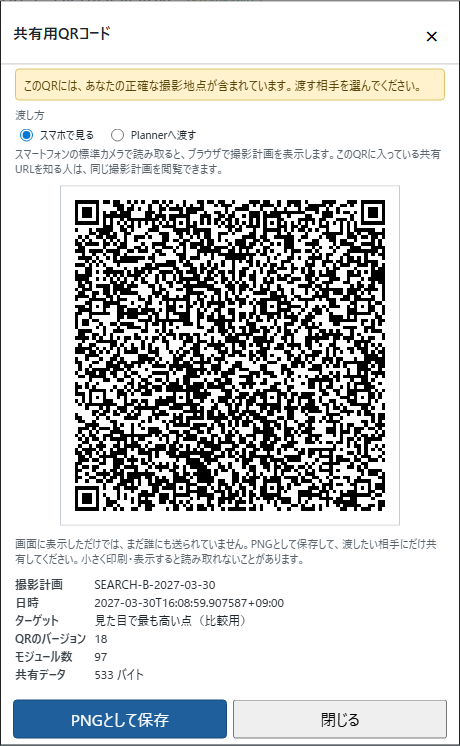
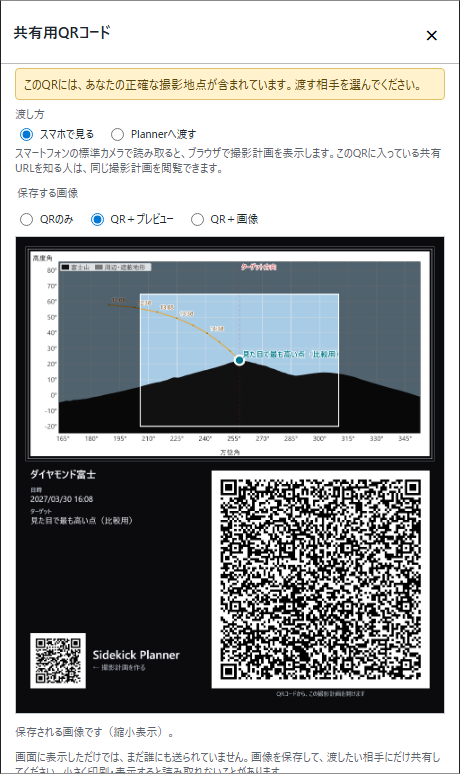
release-prep(planner): β1.02 Web candidate r2 —— Human Review H-1 / H-3 反映（未公開・未 push、自作 AI-16569）
H-1: 製品ページ JA/EN の導入で撮影計画 4 種の名前と意味（アプリの表記と同じ）を列挙。他の本文・changelog は承認済みのまま。
H-3: RC15 の実画面で planner-overview / search-b / qr-share（QR＋プレビュー、460×774、alt・caption 更新）/
viewer-mobile を更新、星の軌跡［実在星］の figure を新規追加。composition-preview は既存 alt と一致しないため据え置き、
天の川の screenshot は不採用。site tests +2。

diff --git a/sidekick-planner.html b/sidekick-planner.html
@@ -751,9 +751,15 @@
           <span class="section-label">Use cases</span>
           <h2>β1.02 でできる撮影計画</h2>
           <p>
-            β1.02 では、撮影計画の種類を「太陽」「パール」「星景」「風景」の 4 つから選べます。
+            β1.02 では、撮影計画の種類を次の 4 つから選べます（アプリの「撮影計画の種類」と同じ名前です）。
             代表例はダイヤモンド富士ですが、被写体は富士山だけではありません。
           </p>
+          <ul class="feature-list">
+            <li><strong>太陽</strong>（ダイヤモンド富士・太陽 × 被写体）—— 太陽が被写体に重なる日と撮影地点を探す</li>
+            <li><strong>パール</strong>（月 × 被写体）—— 月が被写体に重なる日と撮影地点を探す</li>
+            <li><strong>星景</strong>（地上の風景と星空の構図）—— 天の川などの空の被写体と地上の風景の構図、星の軌跡を確かめる</li>
+            <li><strong>風景</strong>（撮影地点から太陽・月を探す）—— 撮影地点から太陽と月がいつ・どちらに見えるかを確かめる</li>
+          </ul>
         </div>
 
         <div class="grid-3">
@@ -803,6 +809,14 @@
             </p>
           </div>
         </div>
+
+        <figure class="shot" style="margin-top:28px">
+          <img src="/images/planner/star-trails-real.jpg" width="1440" height="900" loading="lazy"
+               alt="星景の「星の軌跡」の画面。左パネルで撮影計画の種類「星景」と計画方法「星の軌跡」、日付 2027/04/01・開始時刻 20:00・撮影時間 8時間が選ばれている。右の星の軌跡プレビューは撮影地点から周囲 360° を見渡した図で、04/01 20:00 から翌 04:00 までの星の軌跡が弧を描き、北の空では北極星のまわりを回る軌跡、下には地形の稜線が描かれている。［実在星］が選ばれ、オリオン座・冬の大三角・カシオペヤ座などの星座の名前と線が表示されている。">
+          <figcaption class="shot-caption">
+            星の軌跡｜撮影地点から周囲 360° を見渡した図に、8 時間分の星の流れと地形を重ねて表示。［実在星］では明るい星と星座の線も描きます（実画面）。
+          </figcaption>
+        </figure>
       </div>
     </section>
 
@@ -913,10 +927,10 @@
 
         <div class="shot-grid shot-grid-qr">
           <figure class="shot">
-            <img src="/images/planner/qr-share.png" width="460" height="746" loading="lazy"
-                 alt="共有用QRコードのダイアログ。渡し方として「スマホで見る」と「Plannerへ渡す」の選択、QRコード画像、撮影計画・日時・ターゲットなどの内容、「PNGとして保存」ボタン。">
+            <img src="/images/planner/qr-share.png" width="460" height="774" loading="lazy"
+                 alt="共有用QRコードのダイアログ。渡し方として「スマホで見る」と「Plannerへ渡す」の選択、保存する画像として「QRのみ」「QR＋プレビュー」「QR＋画像」の選択があり、「QR＋プレビュー」が選ばれている。その下に、構図プレビュー・撮影計画（ダイヤモンド富士、2027/03/30 16:08）・大きな共有用 QR と小さな Sidekick Planner の QR を並べた保存用の画像。">
             <figcaption class="shot-caption">
-              QR 共有｜「スマホで見る」または「Plannerへ渡す」を選んで QR を作成（実画面）。
+              QR 共有｜「スマホで見る」または「Plannerへ渡す」を選んで QR を作成。保存する画像は「QRのみ」「QR＋プレビュー」「QR＋画像」から選べます（画面は QR＋プレビュー、実画面）。
             </figcaption>
           </figure>
 

diff --git a/templates/site/pages/sidekick-planner.html b/templates/site/pages/sidekick-planner.html
@@ -607,9 +607,15 @@
           <span class="section-label">Use cases</span>
           <h2>β1.02 でできる撮影計画</h2>
           <p>
-            β1.02 では、撮影計画の種類を「太陽」「パール」「星景」「風景」の 4 つから選べます。
+            β1.02 では、撮影計画の種類を次の 4 つから選べます（アプリの「撮影計画の種類」と同じ名前です）。
             代表例はダイヤモンド富士ですが、被写体は富士山だけではありません。
           </p>
+          <ul class="feature-list">
+            <li><strong>太陽</strong>（ダイヤモンド富士・太陽 × 被写体）—— 太陽が被写体に重なる日と撮影地点を探す</li>
+            <li><strong>パール</strong>（月 × 被写体）—— 月が被写体に重なる日と撮影地点を探す</li>
+            <li><strong>星景</strong>（地上の風景と星空の構図）—— 天の川などの空の被写体と地上の風景の構図、星の軌跡を確かめる</li>
+            <li><strong>風景</strong>（撮影地点から太陽・月を探す）—— 撮影地点から太陽と月がいつ・どちらに見えるかを確かめる</li>
+          </ul>
         </div>
 
         <div class="grid-3">
@@ -659,6 +665,14 @@
             </p>
           </div>
         </div>
+
+        <figure class="shot" style="margin-top:28px">
+          <img src="/images/planner/star-trails-real.jpg" width="1440" height="900" loading="lazy"
+               alt="星景の「星の軌跡」の画面。左パネルで撮影計画の種類「星景」と計画方法「星の軌跡」、日付 2027/04/01・開始時刻 20:00・撮影時間 8時間が選ばれている。右の星の軌跡プレビューは撮影地点から周囲 360° を見渡した図で、04/01 20:00 から翌 04:00 までの星の軌跡が弧を描き、北の空では北極星のまわりを回る軌跡、下には地形の稜線が描かれている。［実在星］が選ばれ、オリオン座・冬の大三角・カシオペヤ座などの星座の名前と線が表示されている。">
+          <figcaption class="shot-caption">
+            星の軌跡｜撮影地点から周囲 360° を見渡した図に、8 時間分の星の流れと地形を重ねて表示。［実在星］では明るい星と星座の線も描きます（実画面）。
+          </figcaption>
+        </figure>
       </div>
     </section>
 
@@ -769,10 +783,10 @@
 
         <div class="shot-grid shot-grid-qr">
           <figure class="shot">
-            <img src="/images/planner/qr-share.png" width="460" height="746" loading="lazy"
-                 alt="共有用QRコードのダイアログ。渡し方として「スマホで見る」と「Plannerへ渡す」の選択、QRコード画像、撮影計画・日時・ターゲットなどの内容、「PNGとして保存」ボタン。">
+            <img src="/images/planner/qr-share.png" width="460" height="774" loading="lazy"
+                 alt="共有用QRコードのダイアログ。渡し方として「スマホで見る」と「Plannerへ渡す」の選択、保存する画像として「QRのみ」「QR＋プレビュー」「QR＋画像」の選択があり、「QR＋プレビュー」が選ばれている。その下に、構図プレビュー・撮影計画（ダイヤモンド富士、2027/03/30 16:08）・大きな共有用 QR と小さな Sidekick Planner の QR を並べた保存用の画像。">
             <figcaption class="shot-caption">
-              QR 共有｜「スマホで見る」または「Plannerへ渡す」を選んで QR を作成（実画面）。
+              QR 共有｜「スマホで見る」または「Plannerへ渡す」を選んで QR を作成。保存する画像は「QRのみ」「QR＋プレビュー」「QR＋画像」から選べます（画面は QR＋プレビュー、実画面）。
             </figcaption>
           </figure>
 

diff --git a/en/sidekick-planner.html b/en/sidekick-planner.html
@@ -716,9 +716,15 @@
           <span class="section-label">Use cases</span>
           <h2>What beta 1.02 can plan</h2>
           <p>
-            Beta 1.02 offers four plan types: Sun, Pearl, Starscape and Landscape. Diamond Fuji is the flagship example,
+            Beta 1.02 offers four plan types (they match the plan types in the app). Diamond Fuji is the flagship example,
             but the subject is not limited to Mount Fuji.
           </p>
+          <ul class="feature-list">
+            <li><strong>Sun</strong> (Diamond Fuji and sun × landmark) — find the dates and shooting points where the sun lines up with a landmark</li>
+            <li><strong>Pearl</strong> (moon × landmark) — find the dates and shooting points where the moon lines up with a landmark</li>
+            <li><strong>Starscape</strong> (landscape and starry sky) — plan compositions of a landmark with the Milky Way or other sky objects, and check star trails</li>
+            <li><strong>Landscape</strong> (sun and moon from a shooting point) — see when and in which direction the sun and the moon appear from a chosen shooting point</li>
+          </ul>
         </div>
 
         <div class="grid-3">
@@ -769,6 +775,14 @@
             </p>
           </div>
         </div>
+
+        <figure class="shot" style="margin-top:28px">
+          <img src="/images/planner/star-trails-real.jpg" width="1440" height="900" loading="lazy"
+               alt="Star trails in Starscape (Japanese UI). On the left, the plan type Starscape and the planning method Star trails are selected, with the date 2027/04/01, start time 20:00 and a shooting time of 8 hours. On the right, the star-trails preview is a 360° view from the shooting point: the paths of the stars from 04/01 20:00 to 04:00 the next morning arc across the sky, circling the pole star in the north, above the terrain skyline. Real stars is selected, showing the names and lines of constellations such as Orion, the Winter Triangle and Cassiopeia.">
+          <figcaption class="shot-caption">
+            Star trails: a 360° view from the shooting point with 8 hours of star paths and the terrain. The "real stars" view also draws bright stars and constellation lines (real screen).
+          </figcaption>
+        </figure>
       </div>
     </section>
 
@@ -875,9 +889,9 @@
 
         <div class="shot-grid shot-grid-qr">
           <figure class="shot">
-            <img src="/images/planner/qr-share.png" width="460" height="746" loading="lazy"
-                 alt="QR share dialog (Japanese UI): a choice between viewing on a phone or handing over to another Planner, the QR image, the plan's date, target and other facts, and a save-as-PNG button.">
-            <figcaption class="shot-caption">QR share — choose "view on phone" or "hand to Planner" and create the QR (real screen).</figcaption>
+            <img src="/images/planner/qr-share.png" width="460" height="774" loading="lazy"
+                 alt="QR share dialog (Japanese UI): a choice between viewing on a phone or handing over to another Planner, and a choice of the saved image — QR only, QR + preview or QR + image — with QR + preview selected. Below it, the image to save: the composition preview, the plan (Diamond Fuji, 2027/03/30 16:08), a large share QR and a small Sidekick Planner QR.">
+            <figcaption class="shot-caption">QR share — choose "view on phone" or "hand to Planner" and create the QR. The saved image can be QR only, QR + preview or QR + image (shown: QR + preview, real screen).</figcaption>
           </figure>
 
           <figure class="shot shot-phone">

diff --git a/templates/site/pages/en/sidekick-planner.html b/templates/site/pages/en/sidekick-planner.html
@@ -588,9 +588,15 @@
           <span class="section-label">Use cases</span>
           <h2>What beta 1.02 can plan</h2>
           <p>
-            Beta 1.02 offers four plan types: Sun, Pearl, Starscape and Landscape. Diamond Fuji is the flagship example,
+            Beta 1.02 offers four plan types (they match the plan types in the app). Diamond Fuji is the flagship example,
             but the subject is not limited to Mount Fuji.
           </p>
+          <ul class="feature-list">
+            <li><strong>Sun</strong> (Diamond Fuji and sun × landmark) — find the dates and shooting points where the sun lines up with a landmark</li>
+            <li><strong>Pearl</strong> (moon × landmark) — find the dates and shooting points where the moon lines up with a landmark</li>
+            <li><strong>Starscape</strong> (landscape and starry sky) — plan compositions of a landmark with the Milky Way or other sky objects, and check star trails</li>
+            <li><strong>Landscape</strong> (sun and moon from a shooting point) — see when and in which direction the sun and the moon appear from a chosen shooting point</li>
+          </ul>
         </div>
 
         <div class="grid-3">
@@ -641,6 +647,14 @@
             </p>
           </div>
         </div>
+
+        <figure class="shot" style="margin-top:28px">
+          <img src="/images/planner/star-trails-real.jpg" width="1440" height="900" loading="lazy"
+               alt="Star trails in Starscape (Japanese UI). On the left, the plan type Starscape and the planning method Star trails are selected, with the date 2027/04/01, start time 20:00 and a shooting time of 8 hours. On the right, the star-trails preview is a 360° view from the shooting point: the paths of the stars from 04/01 20:00 to 04:00 the next morning arc across the sky, circling the pole star in the north, above the terrain skyline. Real stars is selected, showing the names and lines of constellations such as Orion, the Winter Triangle and Cassiopeia.">
+          <figcaption class="shot-caption">
+            Star trails: a 360° view from the shooting point with 8 hours of star paths and the terrain. The "real stars" view also draws bright stars and constellation lines (real screen).
+          </figcaption>
+        </figure>
       </div>
     </section>
 
@@ -747,9 +761,9 @@
 
         <div class="shot-grid shot-grid-qr">
           <figure class="shot">
-            <img src="/images/planner/qr-share.png" width="460" height="746" loading="lazy"
-                 alt="QR share dialog (Japanese UI): a choice between viewing on a phone or handing over to another Planner, the QR image, the plan's date, target and other facts, and a save-as-PNG button.">
-            <figcaption class="shot-caption">QR share — choose "view on phone" or "hand to Planner" and create the QR (real screen).</figcaption>
+            <img src="/images/planner/qr-share.png" width="460" height="774" loading="lazy"
+                 alt="QR share dialog (Japanese UI): a choice between viewing on a phone or handing over to another Planner, and a choice of the saved image — QR only, QR + preview or QR + image — with QR + preview selected. Below it, the image to save: the composition preview, the plan (Diamond Fuji, 2027/03/30 16:08), a large share QR and a small Sidekick Planner QR.">
+            <figcaption class="shot-caption">QR share — choose "view on phone" or "hand to Planner" and create the QR. The saved image can be QR only, QR + preview or QR + image (shown: QR + preview, real screen).</figcaption>
           </figure>
 
           <figure class="shot shot-phone">

diff --git a/tests/site/test_planner_product_page.py b/tests/site/test_planner_product_page.py
@@ -159,6 +159,24 @@ def test_four_plan_types_are_described_as_beta_features(rendered: dict[str, str]
     assert "coming soon" not in en and "cannot be started yet" not in en
 
 
+@pytest.mark.parametrize("key", [JA_KEY, EN_KEY])
+def test_beta_1_02_screens_and_mode_meanings(rendered: dict[str, str], key: str) -> None:
+    """β1.02 Human Review（H-1 / H-3、2026-10-02）: 4 種の名前と意味の対応を導入に列挙し、
+    星の軌跡［実在星］の新規画像を載せ、QR 共有の画像は QR＋プレビューの実画面（460×774）。"""
+    html = rendered[key]
+    assert html.count('src="/images/planner/star-trails-real.jpg" width="1440" height="900"') == 1
+    assert 'src="/images/planner/qr-share.png" width="460" height="774"' in html
+    if key == JA_KEY:
+        for line in ("<strong>太陽</strong>（ダイヤモンド富士・太陽 × 被写体）", "<strong>パール</strong>（月 × 被写体）",
+                     "<strong>星景</strong>（地上の風景と星空の構図）", "<strong>風景</strong>（撮影地点から太陽・月を探す）"):
+            assert line in html
+    else:
+        for line in ("<strong>Sun</strong> (Diamond Fuji and sun × landmark)", "<strong>Pearl</strong> (moon × landmark)",
+                     "<strong>Starscape</strong> (landscape and starry sky)", "<strong>Landscape</strong> (sun and moon from a shooting point)"):
+            assert line in html
+    assert "star-landscape-milky-way" not in html   # H-3: 天の川の screenshot は今回採用しない
+
+
 # ---------------------------------------------------------------------------
 # 4. 配布導線が fail-closed
 # ---------------------------------------------------------------------------
